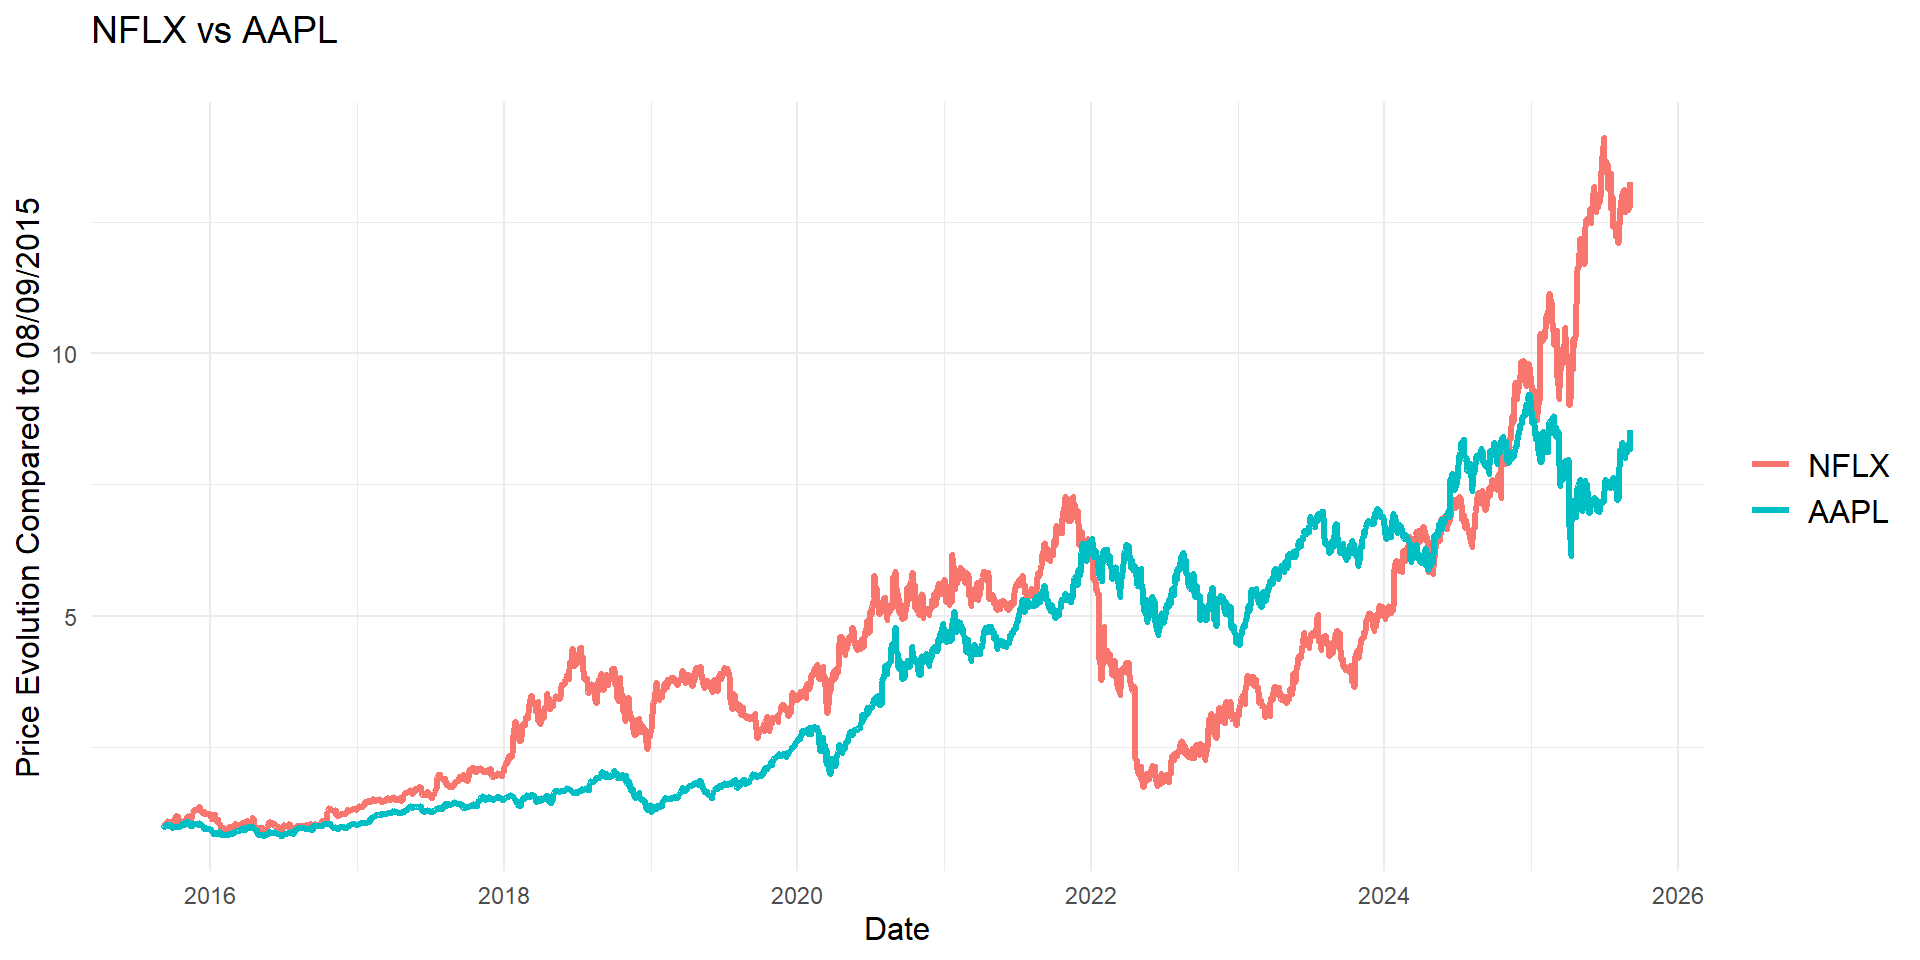
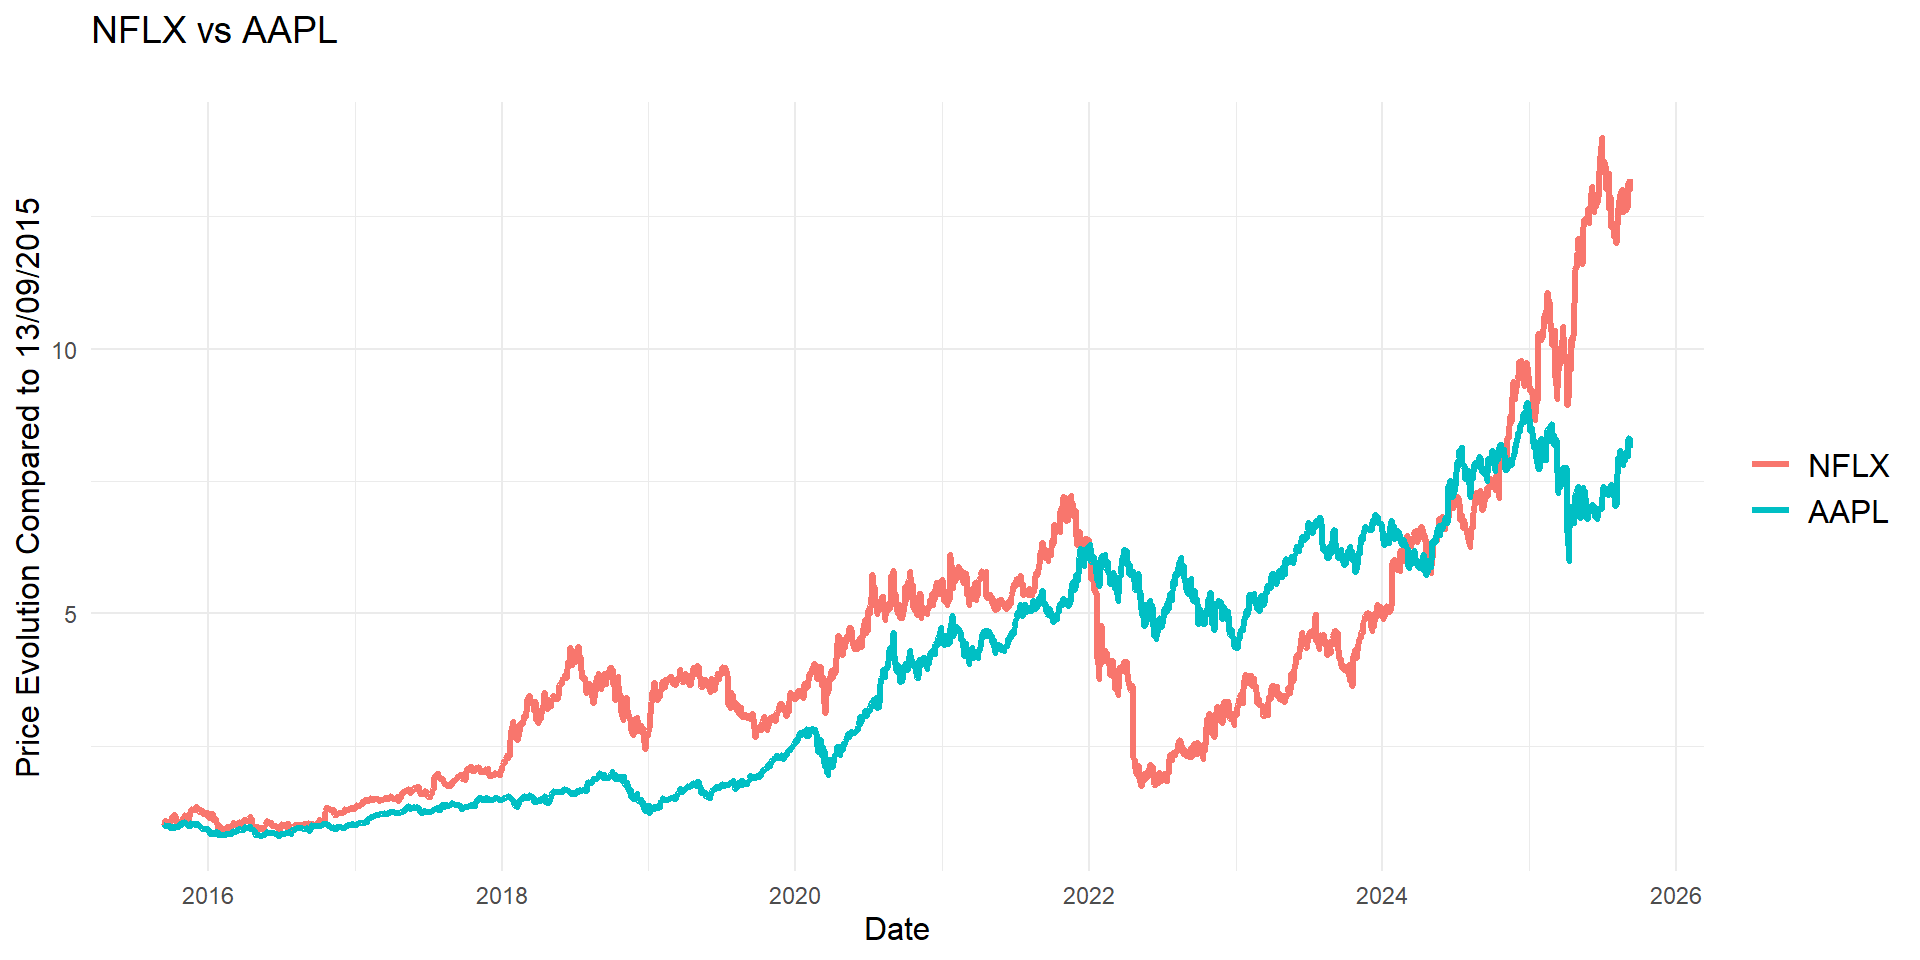
remove link to site

diff --git a/iscal/statistics1/1_intro.html b/iscal/statistics1/1_intro.html
@@ -163,7 +163,7 @@ Paulo Fagandini
 <p><br>
 </p>
 <p><strong>Main source for course material:</strong> <a href="https://moodle2526.ipl.pt/">Moodle@ISCAL</a></p>
-<p><strong>Alternative source (EN):</strong> <a href="https://pfagandini.github.io/statistics1.html">pfagandini.github.io/statistics1.html</a></p>
+<!-- **Alternative source (EN):** [pfagandini.github.io/statistics1.html](https://pfagandini.github.io/statistics1.html) -->
 <p><br>
 </p>
 <p><strong>Official communication channel:</strong> <span class="emoji" data-emoji="email">📧</span> Institutional Email</p>
@@ -180,7 +180,8 @@ Paulo Fagandini
 <section id="bibliography-en" class="slide level2">
 <h2>Bibliography (EN)</h2>
 <h3 id="topic-1-1">Topic 1:</h3>
-<p><span class="emoji" data-emoji="book">📖</span> The making of index numbers. 1<sup>st</sup> Ed 1922. Irving Fisher. <span class="emoji" data-emoji="book">📖</span> A Practical Introduction to Index Numbers. 1<sup>st</sup> Ed 2015. Jeff Ralph, Rob O’Neill, Joe Winton.</p>
+<p><span class="emoji" data-emoji="book">📖</span> The making of index numbers. 1<sup>st</sup> Ed 1922. Irving Fisher.<br>
+<span class="emoji" data-emoji="book">📖</span> A Practical Introduction to Index Numbers. 1<sup>st</sup> Ed 2015. Jeff Ralph, Rob O’Neill, Joe Winton.</p>
 <h3 id="topics-2-and-3">Topics 2 and 3:</h3>
 <p><span class="emoji" data-emoji="book">📖</span> Statistics for Business and Economics Global Edition. 10<sup>th</sup> Ed 2022. Paul Newbold, William Carlson, and Betty Thorne.</p>
 <p><br>
@@ -292,7 +293,7 @@ Paulo Fagandini
 </tr>
 <tr class="odd">
 <td style="text-align: right;">2025</td>
-<td style="text-align: right;">239.78</td>
+<td style="text-align: right;">234.35</td>
 </tr>
 </tbody>
 </table>
@@ -486,7 +487,7 @@ Paulo Fagandini
 <section id="motivation" class="slide level2">
 <h2>Motivation</h2>
 
-<img data-src="1_intro_files/figure-revealjs/unnamed-chunk-4-1.png" class="quarto-figure quarto-figure-center r-stretch" width="960"><p>Which stock would you have purchased in 2015-09-08?</p>
+<img data-src="1_intro_files/figure-revealjs/unnamed-chunk-4-1.png" class="quarto-figure quarto-figure-center r-stretch" width="960"><p>Which stock would you have purchased in 2015-09-13?</p>
 </section>
 <section id="motivation-1" class="slide level2">
 <h2>Motivation</h2>
@@ -535,12 +536,12 @@ Paulo Fagandini
 <section id="motivation-4" class="slide level2">
 <h2>Motivation</h2>
 
-<img data-src="1_intro_files/figure-revealjs/unnamed-chunk-5-1.png" class="quarto-figure quarto-figure-center r-stretch" width="960"><p>Now we have a much clear picture. We can compare their evolution starting in 2015-09-08.</p>
+<img data-src="1_intro_files/figure-revealjs/unnamed-chunk-5-1.png" class="quarto-figure quarto-figure-center r-stretch" width="960"><p>Now we have a much clear picture. We can compare their evolution starting in 2015-09-13.</p>
 <p>What can you read from the plot?</p>
 </section>
 <section id="motivation-5" class="slide level2">
 <h2>Motivation</h2>
-<p>Note that for 2015-09-08, we would have, for A and B:</p>
+<p>Note that for 2015-09-13, we would have, for A and B:</p>
 <p><span class="math display">\[1+\frac{a_t-a_t}{a_t}=1\quad\text{and}\quad 1+\frac{b_t-b_t}{b_t}=1\]</span></p>
 <p>We just built and index number!</p>
 <p>By convention though, instead of using 1 for the reference date, we will use 100 (as in 100%) for the reference day (we will put a name to this in a few moments).</p>
@@ -567,7 +568,7 @@ Paulo Fagandini
 </div>
 <p><br>
 </p>
-<p>In our previous example, the base day would have been 2015-09-08. Note that in the base period <span class="math display">\[I_0=\frac{x_0}{x_0}\times 100 = 100\]</span></p>
+<p>In our previous example, the base day would have been 2015-09-13. Note that in the base period <span class="math display">\[I_0=\frac{x_0}{x_0}\times 100 = 100\]</span></p>
 </section>
 <section id="index-numbers-1" class="slide level2">
 <h2>Index Numbers</h2>
@@ -575,8 +576,8 @@ Paulo Fagandini
 <p>Also, an Index Number can have a fixed base or a moving base.</p>
 <div class="cell">
 <div class="cell-output-display">
-<div class="grViz html-widget html-fill-item" id="htmlwidget-fb73cb65ded141c2ce2b" style="width:960px;height:480px;"></div>
-<script type="application/json" data-for="htmlwidget-fb73cb65ded141c2ce2b">{"x":{"diagram":"\ndigraph TimeSeriesStructure {\n  graph [layout = dot, rankdir = TB]\n\n  node [shape = box, style = filled, fillcolor = lightgray, fontname = Helvetica]\n\n  Index [label = \"Index\"]\n  UnderlyingVariable [label = \"Underlying Variable\"]\n  Base [label = \"Base\"]\n  Dimension [label = \"Dimension\"]\n\n  Simple [label = \"Simple\"]\n  Composite [label = \"Composite\"]\n\n  Fixed [label = \"Fixed\"]\n  Rolling [label = \"Rolling\"]\n\n  Chronological [label = \"Chronological\"]\n  Geographical [label = \"Geographical\"]\n\n  Index -> UnderlyingVariable\n  Index -> Base\n  Index -> Dimension\n\n  UnderlyingVariable -> Simple\n  UnderlyingVariable -> Composite\n\n  Base -> Fixed\n  Base -> Rolling\n\n  Dimension -> Chronological\n  Dimension -> Geographical\n}\n","config":{"engine":"dot","options":null}},"evals":[],"jsHooks":[]}</script>
+<div class="grViz html-widget html-fill-item" id="htmlwidget-6eb94d05fabd554c27ab" style="width:960px;height:480px;"></div>
+<script type="application/json" data-for="htmlwidget-6eb94d05fabd554c27ab">{"x":{"diagram":"\ndigraph TimeSeriesStructure {\n  graph [layout = dot, rankdir = TB]\n\n  node [shape = box, style = filled, fillcolor = lightgray, fontname = Helvetica]\n\n  Index [label = \"Index\"]\n  UnderlyingVariable [label = \"Underlying Variable\"]\n  Base [label = \"Base\"]\n  Dimension [label = \"Dimension\"]\n\n  Simple [label = \"Simple\"]\n  Composite [label = \"Composite\"]\n\n  Fixed [label = \"Fixed\"]\n  Rolling [label = \"Rolling\"]\n\n  Chronological [label = \"Chronological\"]\n  Geographical [label = \"Geographical\"]\n\n  Index -> UnderlyingVariable\n  Index -> Base\n  Index -> Dimension\n\n  UnderlyingVariable -> Simple\n  UnderlyingVariable -> Composite\n\n  Base -> Fixed\n  Base -> Rolling\n\n  Dimension -> Chronological\n  Dimension -> Geographical\n}\n","config":{"engine":"dot","options":null}},"evals":[],"jsHooks":[]}</script>
 </div>
 </div>
 </section>
@@ -1041,8 +1042,8 @@ Table&nbsp;1: Changing Base
 <p>This is a great opportunity to introduce another classification for our index numbers:</p>
 <div class="cell">
 <div class="cell-output-display">
-<div class="grViz html-widget html-fill-item" id="htmlwidget-aaa27e4784a15602ceb3" style="width:960px;height:480px;"></div>
-<script type="application/json" data-for="htmlwidget-aaa27e4784a15602ceb3">{"x":{"diagram":"\ndigraph flowchart {\n  graph [layout = dot, rankdir = TB]\n  node [shape = box, style = filled, fillcolor = lightgray, fontname = Helvetica]\n\n  A [label = \"Index\"]\n  B [label = <Price <i>P<\/i>>]\n  C [label = <Quantity <i>Q<\/i>>]\n  D [label = <Value <i>P<\/i> <i>&times;<\/i> <i>Q<\/i>>]\n\n  A -> B\n  A -> C\n  A -> D\n}\n","config":{"engine":"dot","options":null}},"evals":[],"jsHooks":[]}</script>
+<div class="grViz html-widget html-fill-item" id="htmlwidget-9919a4e19cd3cccea8b7" style="width:960px;height:480px;"></div>
+<script type="application/json" data-for="htmlwidget-9919a4e19cd3cccea8b7">{"x":{"diagram":"\ndigraph flowchart {\n  graph [layout = dot, rankdir = TB]\n  node [shape = box, style = filled, fillcolor = lightgray, fontname = Helvetica]\n\n  A [label = \"Index\"]\n  B [label = <Price <i>P<\/i>>]\n  C [label = <Quantity <i>Q<\/i>>]\n  D [label = <Value <i>P<\/i> <i>&times;<\/i> <i>Q<\/i>>]\n\n  A -> B\n  A -> C\n  A -> D\n}\n","config":{"engine":"dot","options":null}},"evals":[],"jsHooks":[]}</script>
 </div>
 </div>
 </section>
